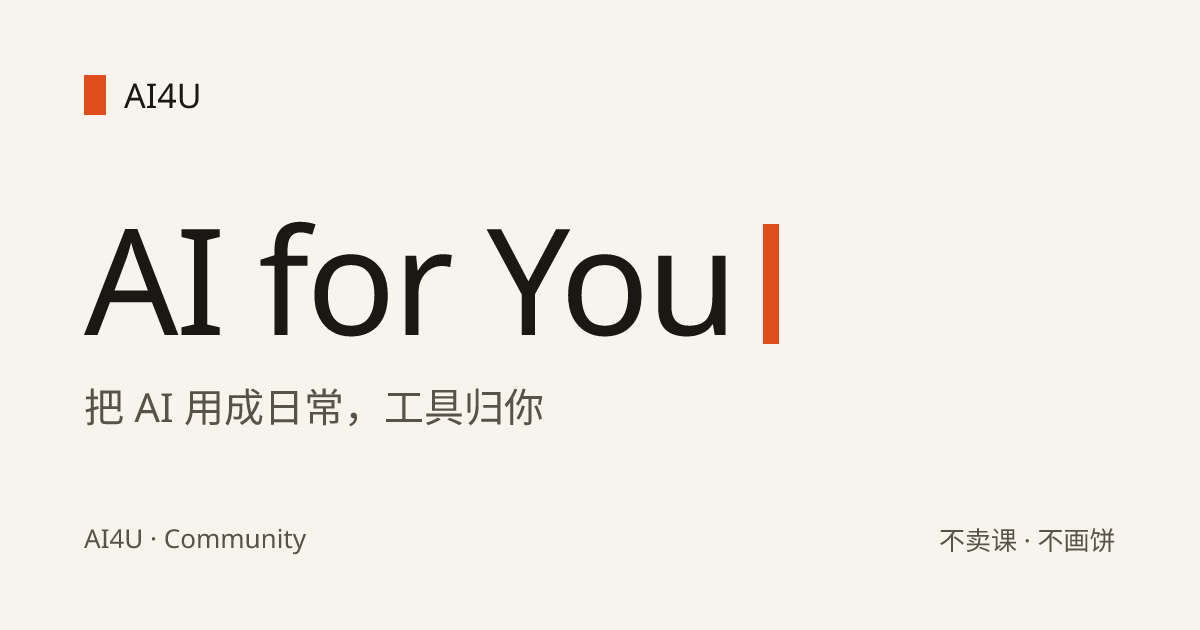
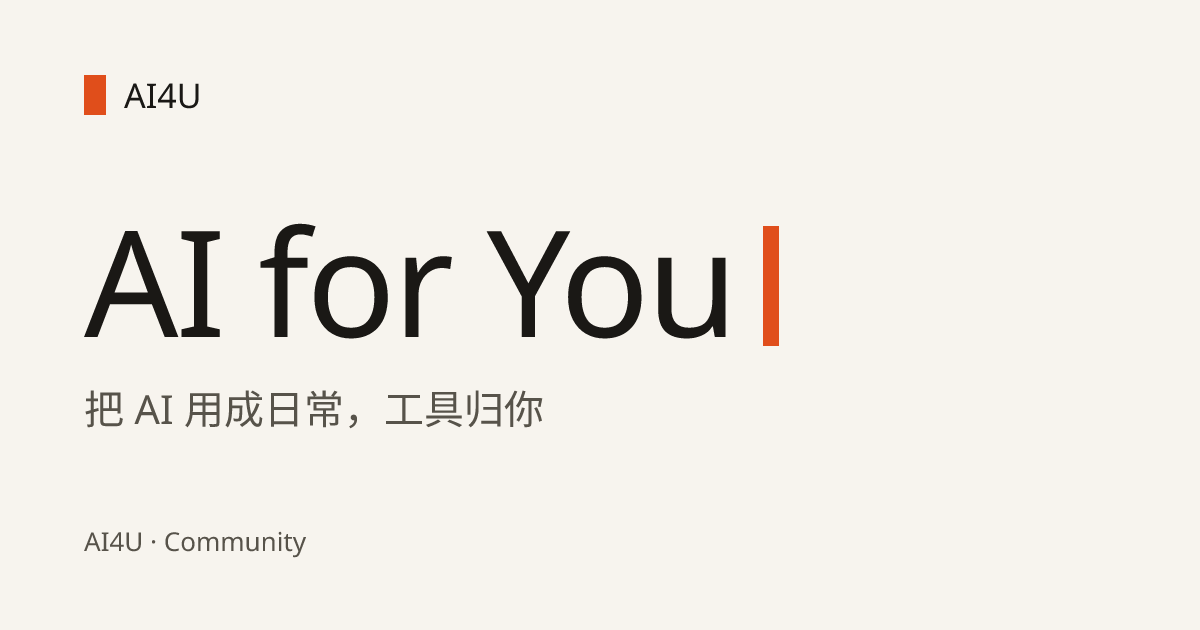
docs(brand): og 卡与 README 移除「不卖课 · 不画饼」
og 卡底行只保留「AI4U · Community」；README 头部标语同步删除该句。
og 卡本次仅保留文案删除，版式未改（按「og 暂不动」）。

diff --git a/README.md b/README.md
@@ -9,7 +9,7 @@
 </p>
 
 <p style="font-size:.9em;color:#8a867e;margin:0 0 18px;">
-  一伙人自己在维护的 AI 交流社区 · 不卖课 · 不画饼
+  一伙人自己在维护的 AI 交流社区
 </p>
 
 <p align="center">
